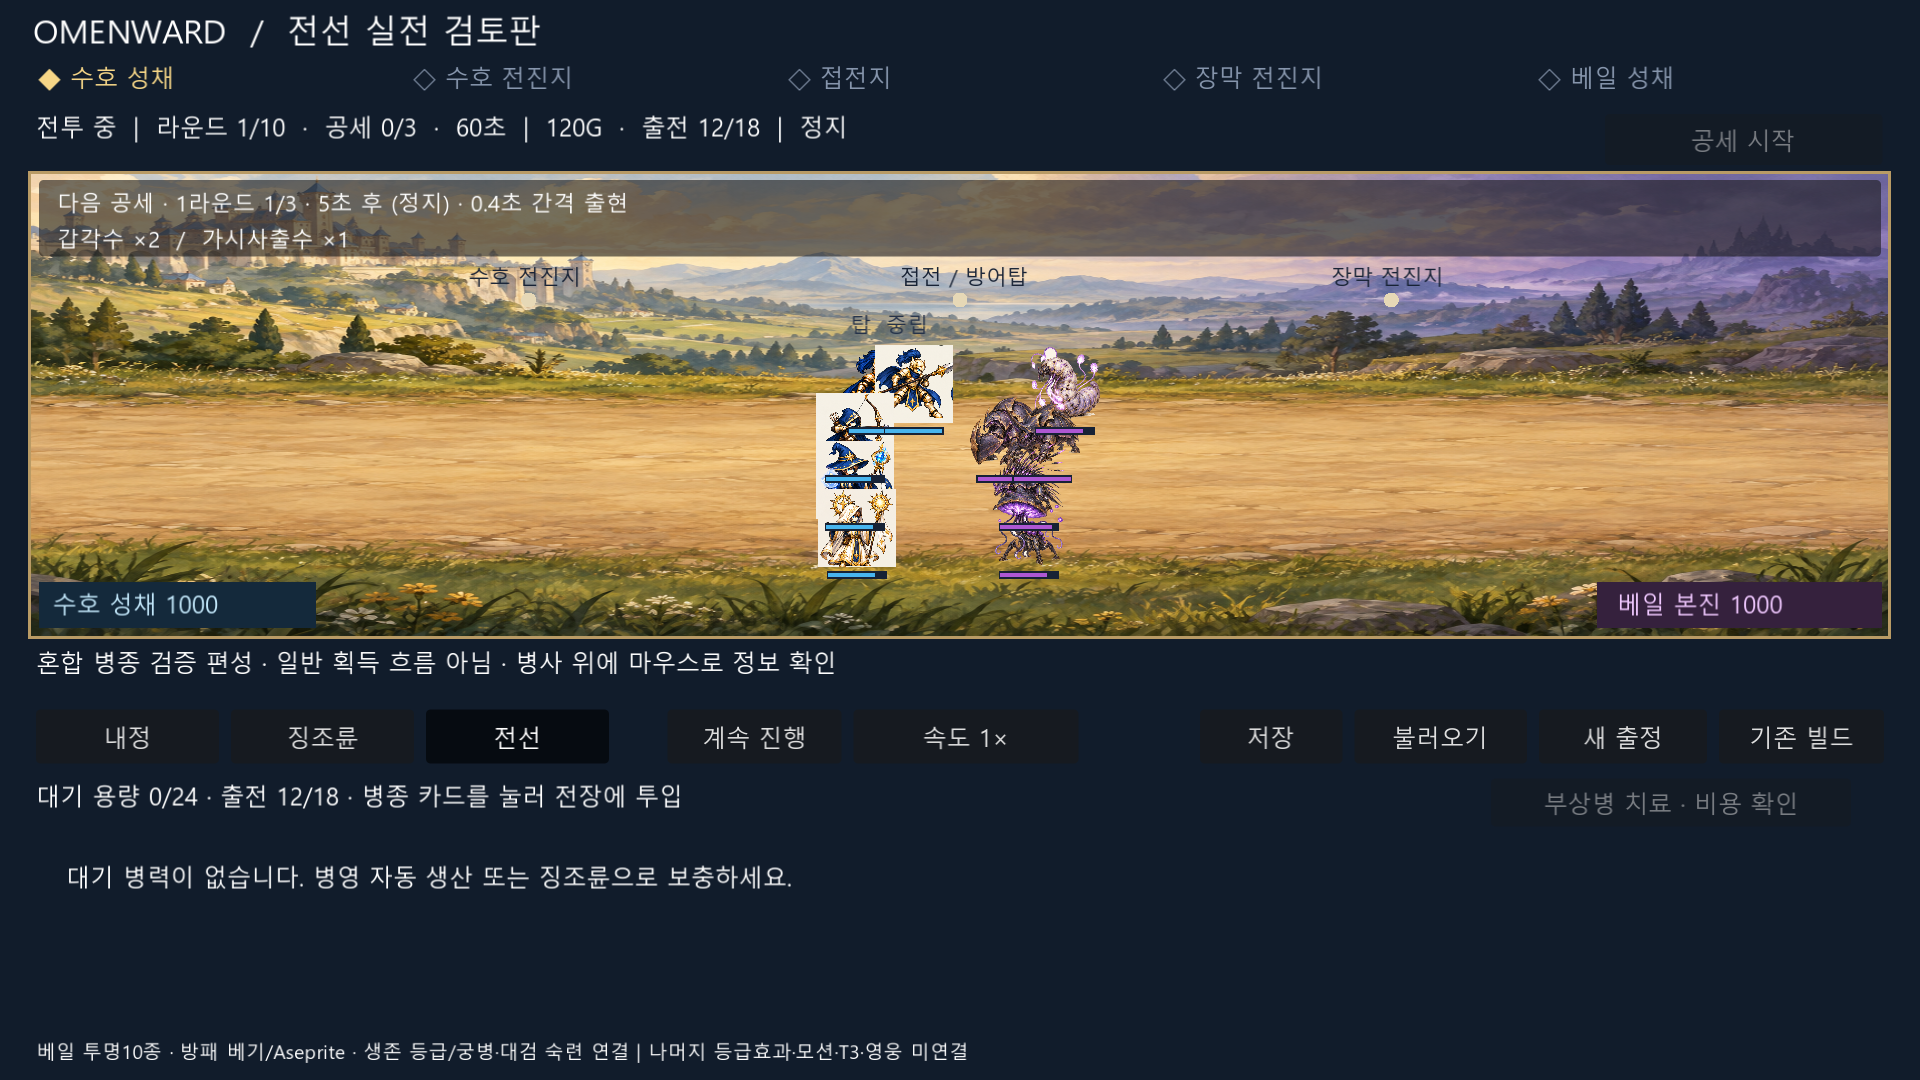
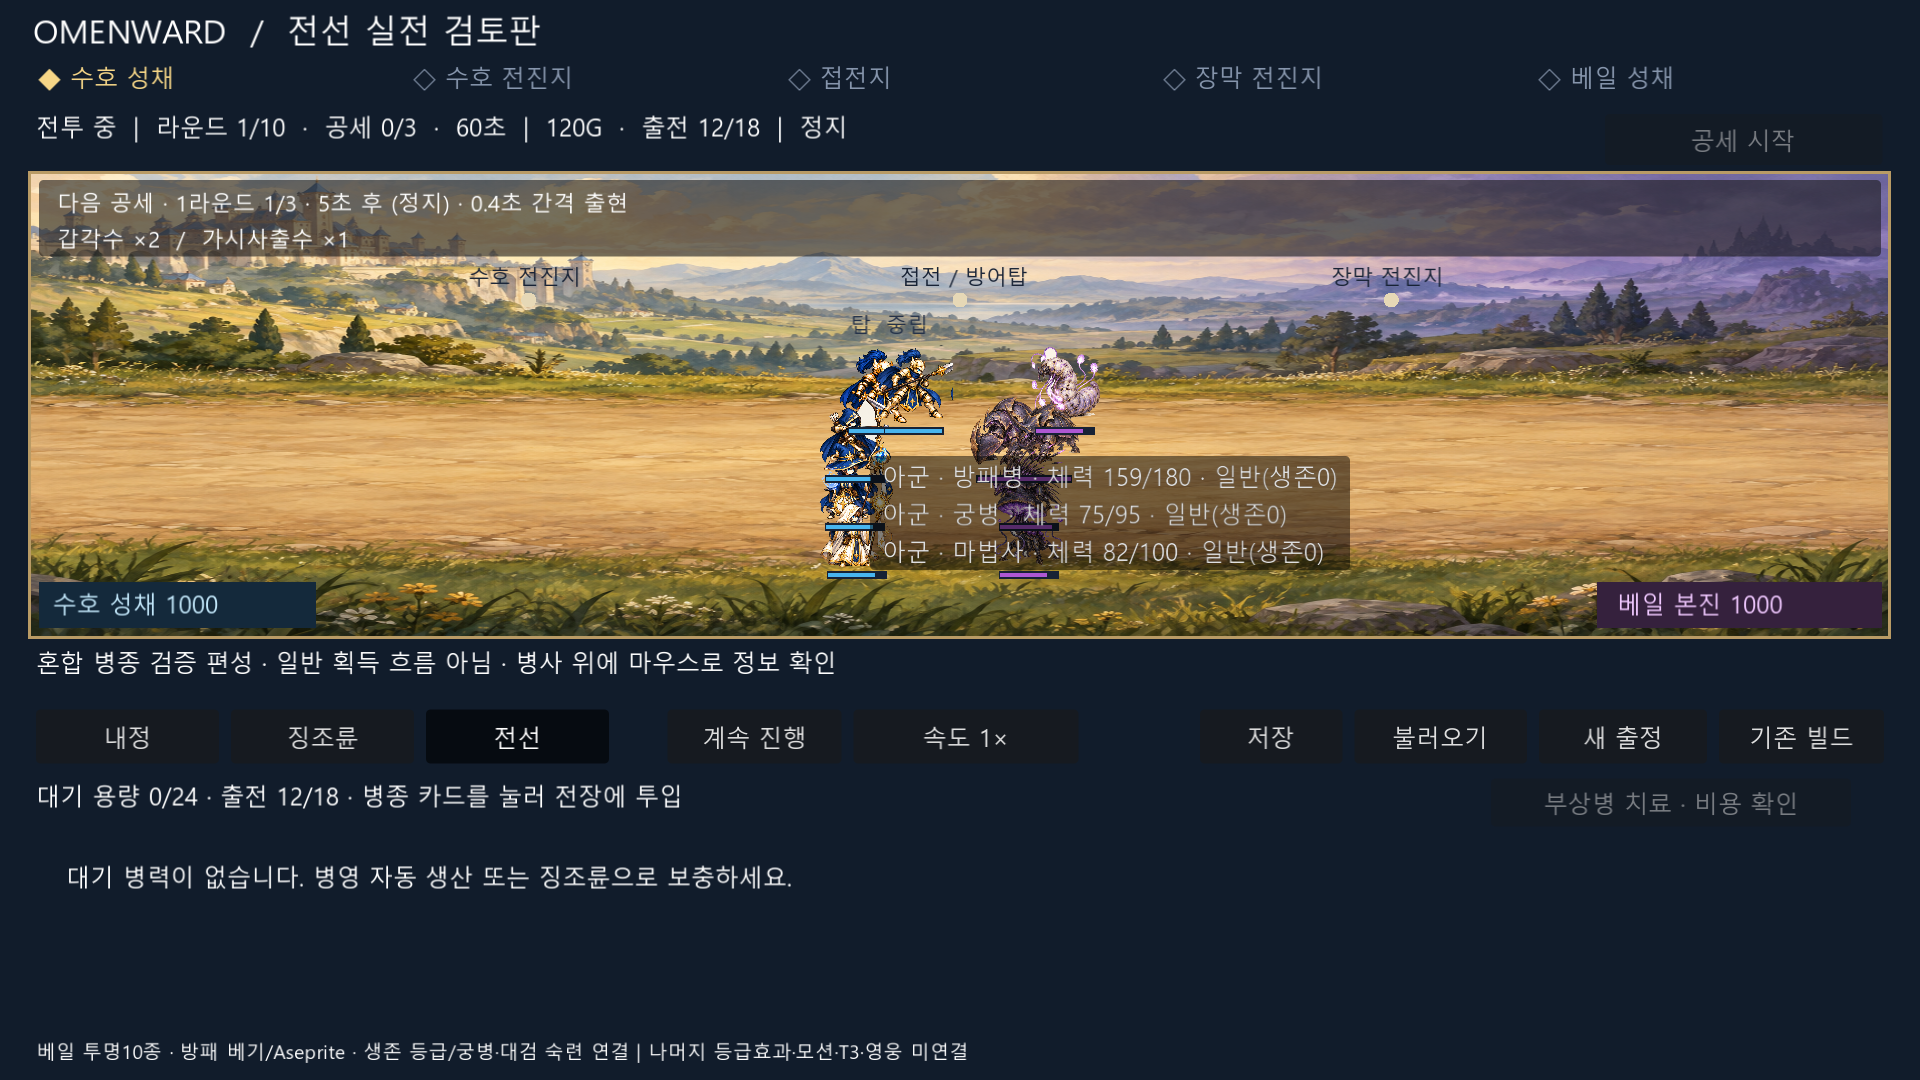
fix: connect transparent Ward and facility portraits

Changed region(s): [[0.4062, 0.3056, 0.7188, 0.55]]

diff --git a/tools/veil_cutout.py b/tools/veil_cutout.py
@@ -1,6 +1,7 @@
 """User-approved local alpha-only cutouts; never redraw or overwrite source pixels."""
 from pathlib import Path
 import hashlib
+import argparse
 import numpy as np
 from PIL import Image, ImageChops, ImageDraw, ImageFilter, ImageOps
 
@@ -26,7 +27,33 @@ def cutout(source, minimum=155):
     result.putalpha(Image.fromarray(np.where(connected, 0, 255).astype('uint8')))
     return result
 
+def ward_assets():
+    jobs = [('ward-roster.png', 'ward-roster-alpha.png', (1774, 887)),
+            ('special-roster-additions.png', 'ward-special-alpha.png', (1254, 1254)),
+            ('building-tree.png', 'building-tree-alpha.png', (1774, 887))]
+    for original, target, dimensions in jobs:
+        source_path, output = ART / original, ART / target
+        if output.exists():
+            raise FileExistsError(output)
+        digest = hashlib.sha256(source_path.read_bytes()).hexdigest()
+        with Image.open(source_path) as source:
+            image = source.convert('RGB')
+        if image.size != dimensions:
+            raise ValueError('Re-review changed source dimensions')
+        if original == 'special-roster-additions.png':
+            image = image.crop((0, 0, 1254, 610))
+        result = soften_edges(cutout(image))
+        assert result.convert('RGB').tobytes() == image.tobytes()
+        assert hashlib.sha256(source_path.read_bytes()).hexdigest() == digest
+        result.save(output)
+        print(target, 'sha256=', hashlib.sha256(output.read_bytes()).hexdigest())
+
 def main():
+    parser = argparse.ArgumentParser(description=__doc__)
+    parser.add_argument('--ward', action='store_true', help='Create Ward and facility derivatives only')
+    if parser.parse_args().ward:
+        ward_assets()
+        return
     jobs = [('veil-roster.png', 'veil-roster-alpha.png', False),
             ('special-roster-additions.png', 'veil-special-alpha.png', True)]
     for original, target, lower_half in jobs:

diff --git a/tests/test_ward_cutout.py b/tests/test_ward_cutout.py
@@ -1,0 +1,37 @@
+from pathlib import Path
+import unittest
+from PIL import Image
+
+ART = Path(__file__).resolve().parents[1] / 'docs/images/candidates/blueprint-20260911'
+
+class WardCutoutTests(unittest.TestCase):
+    def test_source_rgb_is_preserved_with_real_alpha(self):
+        for source, target, crop in [
+            ('ward-roster.png', 'ward-roster-alpha.png', None),
+            ('special-roster-additions.png', 'ward-special-alpha.png', (0, 0, 1254, 610)),
+            ('building-tree.png', 'building-tree-alpha.png', None),
+        ]:
+            with self.subTest(target=target):
+                self.assertTrue((ART / target).exists(), 'Missing transparent runtime derivative')
+                with Image.open(ART / source) as original, Image.open(ART / target) as result:
+                    expected = original.convert('RGB')
+                    if crop:
+                        expected = expected.crop(crop)
+                    self.assertEqual(result.mode, 'RGBA')
+                    self.assertEqual(result.size, expected.size)
+                    self.assertEqual(result.convert('RGB').tobytes(), expected.tobytes())
+                    self.assertGreater(result.getchannel('A').histogram()[0], result.width * result.height * .15)
+                    self.assertEqual(result.getpixel((0, 0))[3], 0)
+
+    def test_pale_robes_and_wings_are_not_background(self):
+        for target, points in [
+            ('ward-roster-alpha.png', [(1510, 115), (1565, 350)]),
+            ('ward-special-alpha.png', [(760, 120), (1100, 365)]),
+        ]:
+            self.assertTrue((ART / target).exists(), 'Missing pale-subject derivative')
+            with Image.open(ART / target) as result:
+                for point in points:
+                    self.assertGreater(result.getpixel(point)[3], 240, (target, point))
+
+if __name__ == '__main__':
+    unittest.main()

diff --git a/tools/replan_scope.py b/tools/replan_scope.py
@@ -10,6 +10,10 @@ ROOT = Path(__file__).resolve().parents[1]
 APPROVAL = 'docs/process/APPROVED_REPLAN_UI_MOTION_BUILD_SCOPE_20260911.md'
 # Exact files only: adding a sibling module requires a reviewed scope amendment.
 ALLOWED = {
+    'tests/test_ward_cutout.py',
+    'docs/images/candidates/blueprint-20260911/ward-roster-alpha.png',
+    'docs/images/candidates/blueprint-20260911/ward-special-alpha.png',
+    'docs/images/candidates/blueprint-20260911/building-tree-alpha.png',
     'docs/design/OMENWARD_BLUEPRINT_BUILD_INPUT_20260911.json',
     'docs/design/OMENWARD_HUMAN_BLUEPRINT_REVIEW_20260911.md',
     'tools/ward_motion.py', 'tests/test_ward_motion.py',

diff --git a/docs/images/candidates/blueprint-20260911/ROSTER_PROVENANCE.md b/docs/images/candidates/blueprint-20260911/ROSTER_PROVENANCE.md
@@ -1,5 +1,19 @@
 # Roster / building / hero candidate provenance
 
+## Ward/facility alpha-only continuation · 2026-09-13
+
+User-approved local extraction: `tools/veil_cutout.py --ward`, connected exterior paper removal and inward 0.5px alpha feather; RGB byte-for-byte preserved, no source overwrite or redraw. Sources remain the corresponding original files in this directory. Special atlas crops `(0,0,1254,610)` at the reviewed empty gutter. `front_art.gd` consumes Ward portraits and facility portraits; building rows split at y407 to preserve chapel spire. Shield uses its existing motion asset instead. These remain runtime candidate derivatives, not final art approval.
+
+| Output | SHA-256 |
+|---|---|
+| ward-roster-alpha.png | 9554b87382f742c5429e30bcfeb79569de718b0116e05bf782a3265c5803ec99 |
+| ward-special-alpha.png | dfe2bf87d9cb4d8cfd854cb71054878db64c81c0c27ccc255c2541d91811f232 |
+| building-tree-alpha.png | 2c33babaca340318d00ec52a84372219ad7193ac58987dc8aff91e58b775d5ce |
+
[1 lines of base64/hex data omitted]
+
+This operation did not use Aseprite or produce new animation frames. Existing shield/native Veil files are unchanged. RGB/alpha automated checks and sampled pale anatomy plus mixed GPU inspection are not exhaustive segmentation approval. Enclosed paper remnants, narrow cell/weapon margins, generic facility fallback icons and remaining motion families are still partial/unimplemented. No source image may be removed because it binds provenance and regression tests.
+
 ## Shield four-pose motion · 2026-09-12
 
[1 lines of base64/hex data omitted]

diff --git a/docs/ACTIVE_CONTEXT.md b/docs/ACTIVE_CONTEXT.md
@@ -1,5 +1,7 @@
 # [현행] OMENWARD Active Context
 
+2026-09-13 투명화 후속: Ward 일반/특수 및 시설8종은 RGB 보존 RGBA 파생본으로 소비 경로 변경. 방패 기존4프레임/베일10종 유지. Python7검사, Godot242모델/화면/저장/기본실행 PASS 및 GPU 혼합10병력·10피해 확인. 첫 실행은 미등록 이미지 오류가 있었으므로 PASS로 인정하지 않았고 import 후 재실행; 검증기가 엔진 ERROR도 실패 처리하도록 보완. 시설 atlas y407 분할로 다른 행 십자가 침범 교정. 이번 파생본 Aseprite 미사용/새 모션 없음; 내부 종이색·좁은 셀·일반 UI 대체 아이콘 및 전체 모션은 잔여. 전체 게임/Human/main 통합 미완료.
+
 성장 후속: 생존2/5회 숙련/정예 판정과 저장·맵 계승·재도전 rollback 연결. 기본HP/공격 일괄배수 없음. 숙련 궁병 동일대상 매3타1.25/숙련 대검 첫대상1.2를 첫 소비처로 연결했다. 모델242/0실패, 화면/저장/기본실행 PASS; 두 번째 사격 저장→복원→세 번째 보너스 검사 포함. GPU 기존 전투/혼합/캠페인 캡처 갱신, 실제 숙련 전용 장면 검증은 별도 미실행.5관점 정적 검토 차단 결함 없음. 다른8병종 숙련/전 병종 정예 특수효과는 미연결; 다음은 공통 보호막/둔화/경직 계약을 구현해 연결하며 T3/영웅에 재사용. 전체 게임·자연5맵완주·최종Human 미완료.
 
 병종 표적 연결 후 모델224/0실패, UI/저장/기본 실행 PASS. 궁병은 사거리내 비행 우선, 비행병 지상 후열 우선, 암살자는 상세 progression 명세의4거리(모델12) 내 후열 우선/첫 후열타1.4/10초 재사용. ambush 저장·맵 초기화·양진영 역방향 접근·재정비 동결 검사. 이동 방향 변경은 새 두 역할만, 기존 병종 보존. GPU 기존 전투14피해/13유닛·혼합10유닛·방패3상태 재확인; 암살자 전용 모션/시각 검증 아님. 자동 원정 결과는 여전히2맵2라운드패배. 다음은 생존 등급/T3/영웅을 포함한 미연결 성장·경제 대조.

diff --git a/docs/superpowers/plans/2026-09-11-visible-battle-slice.md b/docs/superpowers/plans/2026-09-11-visible-battle-slice.md
@@ -1,5 +1,9 @@
 # Visible battle and construction implementation plan
 
+## 2026-09-13 transparent Ward and facility continuation
+
+Bounded consumer fix: non-shield Ward currently uses opaque ward-roster, special upper-row and building-tree. Reuse explicitly user-approved local alpha-only processor, preserve RGB/source hashes, no redrawing or new art approval. Alternatives: image-model re-extraction (identity/alpha drift risk observed), whole pale-color removal (reject armor damage), edge-connected paper removal with enclosed pale details retained (ADAPT existing tested tool). Outputs ward-roster-alpha.png, ward-special-alpha.png (upper610px verified gutter), building-tree-alpha.png. Existing shield motion and Veil remain unchanged. Native static Aseprite only if available; never claim motion. Tests fail on missing alpha outputs, RGB changes or pale anatomy erasure; actual Godot consumer alpha and mixed/building GPU after wiring. Margins/weapon cross-cell and enclosed paper remain explicit quality limits; don't mislabel as final animation.
+
 ## Survival progression foundation and first consumers
 
 Current Blueprint recommends surviving2 completed rounds -> veteran,5 -> elite, no blanket HP/ATK multiplier. Add optional integer survived0..53 to each unit, increment living Ward survivors once on BATTLE -> REFIT/VICTORY (including early capture), not defeat/pause/reload. Carry through map/retry snapshots. Label grade in hover without claiming all grade skills implemented. First actual consumers: veteran greatsword primary hit+20%; veteran archer same-target third and later streak? Resolve literal '연속3타째' as every third consecutive same-target hit, reset on target change. Store attack streak/target to preserve reload; no recursive extra hits. Grade0 unchanged. Remaining grade skills require shared timed status system and follow in later steps. RED2/5 thresholds, no duplicate completion, defeat exclusion, disk/retry, target-switch streak and primary-only bonus. No new art.

diff --git a/docs/process/APPROVED_REPLAN_UI_MOTION_BUILD_SCOPE_20260911.md b/docs/process/APPROVED_REPLAN_UI_MOTION_BUILD_SCOPE_20260911.md
@@ -1,5 +1,7 @@
 # Approved project-local replan BUILD scope
 
+Transparent Ward/facility continuation adds exact ward-roster-alpha.png, ward-special-alpha.png, building-tree-alpha.png under existing blueprint candidate directory and tests/test_ward_cutout.py. Reuse user-approved RGB-preserving local extraction; no source overwrite, final art promotion, new motion claim or Base lock change. Facility consumer splits at reviewed y407 gutter to avoid chapel spire contamination.
+
 Survival progression continuation in same model/UI/tests: optional survived/focus fields,2/5 grade thresholds, one completion award, Ward-only survival growth, veteran archer/greatsword first consumers. Other grade abilities remain pending shared status implementation. No generic stat multiplier or art promotion.
 
 Existing catalog target-role completion in same files: archer in-range flying priority, flying backline priority, assassin 4-distance backline approach and10s firsthit1.4 multiplier; optional ambush state finite0..10 persisted. No teleport/air invulnerability/art approval. Existing tests and GPU outputs only.

diff --git a/docs/OMENWARD_ROADMAP.md b/docs/OMENWARD_ROADMAP.md
@@ -231,3 +231,6 @@ IMPLEMENTATION_EXECUTION = IMPLEMENTED__HEADLESS_CONTRACTS_AND_THREE_RESOLUTION_
 ```
 
 For this handoff workstream, the operational action is exact-head PR verification → safe merge → post-merge main readback → stop.
+# 2026-09-13 transparency continuation
+
+Ward and eight facility portraits now consume alpha-only derivatives; source RGB preserved. Existing shield motion retained, new native Aseprite/motion not produced. Remaining: enclosed pale remnants/cell margins and generic UI icons; then shared statuses, other grade abilities, T3/heroes and five-map balance. Whole-game completion remains open.
